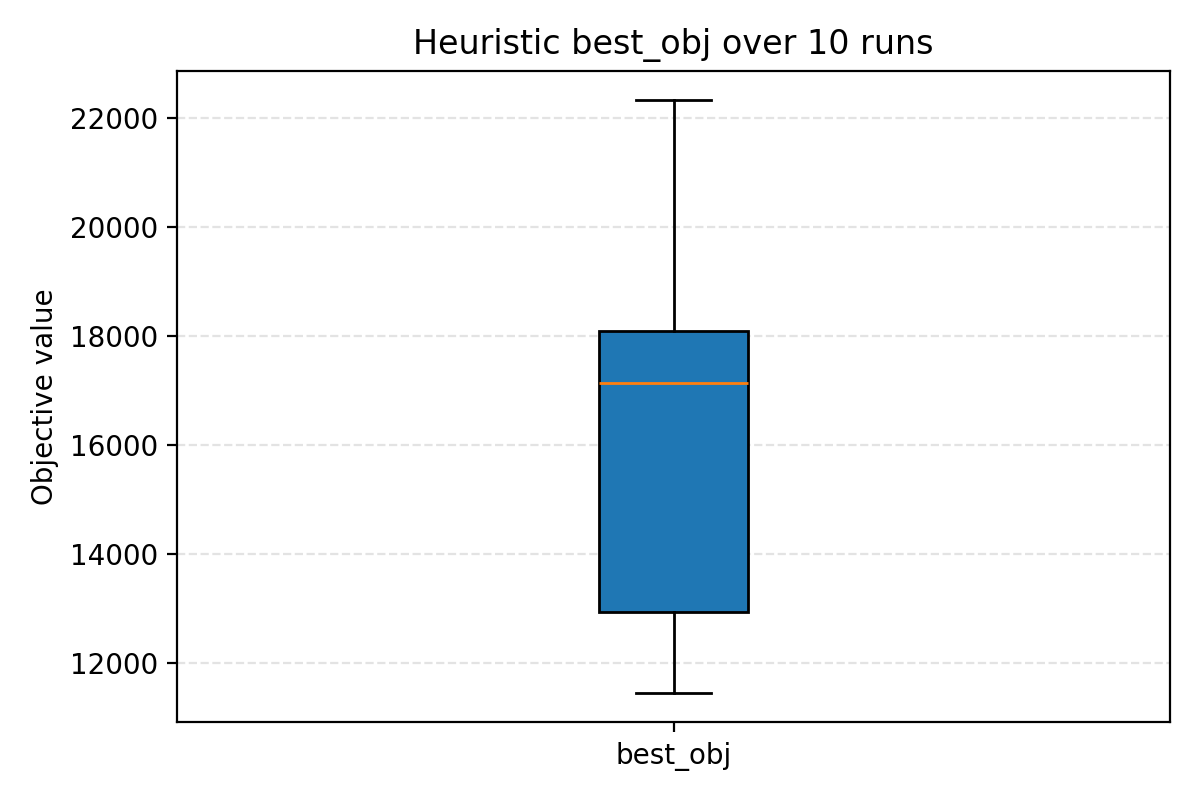
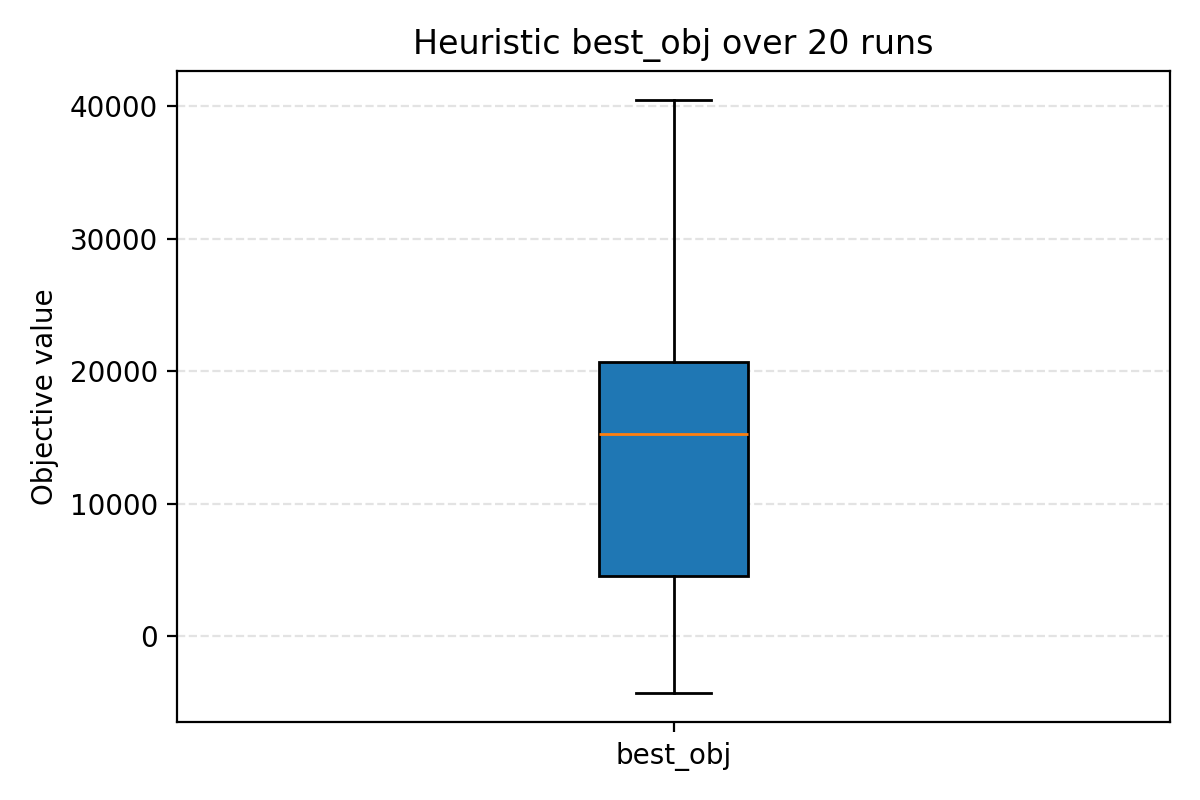
Update KPIs and run experiments

diff --git a/Heuristic/Experiments/Results/Dashborad.py b/Heuristic/Experiments/Results/Dashborad.py
@@ -3,58 +3,235 @@ import streamlit as st
 import plotly.express as px
 
 def run_dashboard(df: pd.DataFrame):
-    st.set_page_config(page_title="Run Dashboard", layout="wide")
+    # --- Page Config & High-Contrast CSS Theme ---
+    st.set_page_config(page_title="eVTOL Optimization Control Room", layout="wide", page_icon="🛸")
+    
+    # Custom CSS for structure, deep text-to-background contrast, and modern layout cards
+    st.markdown("""
+        <style>
+            /* Reset canvas padding */
+            .block-container { padding-top: 1.5rem; padding-bottom: 2rem; background-color: #FAFAFA; }
+            
+            /* High contrast typography (Dark Slate on Off-White) */
+            h1, h2, h3 { color: #0F172A !important; font-weight: 700 !important; }
+            p, span, label { color: #334155 !important; font-weight: 500; }
+            
+            /* Custom KPI Card Styling with high-contrast borders */
+            .kpi-card {
+                background-color: #FFFFFF;
+                padding: 20px;
+                border-radius: 12px;
+                border: 2px solid #E2E8F0;
+                box-shadow: 0 4px 6px -1px rgba(0, 0, 0, 0.05);
+                margin-bottom: 1rem;
+            }
+            .kpi-title { font-size: 0.85rem; text-transform: uppercase; letter-spacing: 0.05em; color: #64748B; margin-bottom: 6px; }
+            .kpi-value { font-size: 1.8rem; font-weight: 800; color: #0F172A; }
+            
+            /* Section container */
+            .dashboard-section {
+                background-color: #FFFFFF;
+                padding: 24px;
+                border-radius: 16px;
+                border: 1px solid #E2E8F0;
+                margin-bottom: 1.5rem;
+            }
+        </style>
+    """, unsafe_allow_html=True)
 
-    st.title("Optimization Run Dashboard")
+    # --- Header ---
+    st.title("🛸 eVTOL Fleet Optimization Control Room")
+    st.markdown("Assess solver performance, vehicle bottlenecks, and passenger service levels across execution history.")
+    st.markdown("---")
 
-    # --- Sidebar controls ---
-    metric_options = [c for c in df.columns if c != "run"]
-    selected_metrics = st.sidebar.multiselect(
-        "Select metrics to visualize",
-        metric_options,
-        default=metric_options[:4]
-    )
-
+    # --- Sidebar Filters ---
+    st.sidebar.header("🎛️ Global Controls")
+    
+    run_min, run_max = int(df["run"].min()), int(df["run"].max())
     run_range = st.sidebar.slider(
-        "Run range",
-        int(df["run"].min()),
-        int(df["run"].max()),
-        (int(df["run"].min()), int(df["run"].max()))
+        "Filter Run Execution Window",
+        run_min, run_max, (run_min, run_max)
     )
+    
+    # Filter and sort data
+    filtered = df[(df["run"] >= run_range[0]) & (df["run"] <= run_range[1])].sort_values("run")
 
-    filtered = df[(df["run"] >= run_range[0]) & (df["run"] <= run_range[1])]
+    # --- SECTION 1: EXECUTIVE SCORECARD ---
+    st.subheader("📊 Executive Summary Metrics (Averages)")
+    
+    # Compute metrics cleanly upfront
+    max_obj = filtered['best_obj'].max() if 'best_obj' in filtered.columns else 0.0
+    avg_util = (filtered['aircraft_utilization'].mean() * 100) if 'aircraft_utilization' in filtered.columns else 0.0
+    avg_demand = filtered['passenger_demand_served'].mean() if 'passenger_demand_served' in filtered.columns else 0.0
+    avg_wait = filtered['average_passenger_waiting_time'].mean() if 'average_passenger_waiting_time' in filtered.columns else 0.0
+    avg_deadhead = filtered['deadhead_time'].mean() if 'deadhead_time' in filtered.columns else 0.0
 
-    # --- KPIs row ---
-    st.subheader("Summary KPIs")
-    col1, col2, col3, col4 = st.columns(4)
+    # Grid of HTML-rendered High Contrast KPI Cards
+    kpi_cols = st.columns(5)
+    
+    metrics_data = [
+        ("🏆 Max Best Objective", f"{max_obj:,.2f}", 0),
+        ("⚡ Avg Utilization", f"{avg_util:.1f}%", 1),
+        ("👥 Avg Demand Served", f"{avg_demand:,.1f}", 2),
+        ("⏳ Avg Waiting Time", f"{avg_wait:.1f} min", 3),
+        ("✈️ Avg Deadhead Time", f"{avg_deadhead:.1f} min", 4)
+    ]
+    
+    for title, val, col_idx in metrics_data:
+        kpi_cols[col_idx].markdown(f"""
+            <div class="kpi-card">
+                <div class="kpi-title">{title}</div>
+                <div class="kpi-value">{val}</div>
+            </div>
+        """, unsafe_allow_html=True)
 
-    col1.metric("Best Objective (max)", f"{filtered['best_obj'].max():.2f}")
-    col2.metric("Avg Aircraft Utilization", f"{filtered['aircraft_utilization'].mean():.3f}")
-    col3.metric("Avg Passenger Served %", f"{filtered['passenger_demand_served_pct'].mean():.2f}")
-    col4.metric("Avg Idle Time", f"{filtered['aircraft_idle_time'].mean():.1f}")
+    # --- SECTION 2: MACRO ANALYSIS (SIDE-BY-SIDE) ---
+    st.markdown('<div class="dashboard-section">', unsafe_allow_html=True)
+    mid_left, mid_right = st.columns([3, 2])
+    
+    target_kpis = ["best_obj", "aircraft_utilization", "deadhead_time", "passenger_demand_served", "average_passenger_waiting_time"]
+    available_kpis = [k for k in target_kpis if k in df.columns]
 
-    # --- Line charts ---
-    st.subheader("Trends over Runs")
+    with mid_left:
+        st.markdown("### 📊 Distribution of Best Objective Values")
+        if "best_obj" in filtered.columns:
+            # Replaced px.line with px.box for distributional overview
+            fig_main = px.box(
+                filtered, 
+                y="best_obj",
+                points="all", # Shows individual run dots next to the box for transparency
+                template="plotly_white", 
+                color_discrete_sequence=["#2563EB"] # Bold blue theme
+            )
+            fig_main.update_layout(
+                height=350, 
+                margin=dict(l=10, r=10, t=20, b=10),
+                # Enforce clean high-contrast light theme attributes
+                paper_bgcolor="#FFFFFF",
+                plot_bgcolor="#FFFFFF",
+                font=dict(color="#0F172A"),
+                xaxis=dict(
+                    showticklabels=False, # Hides the default empty X-axis label for a single box
+                    gridcolor="#E2E8F0"
+                ),
+                yaxis=dict(
+                    gridcolor="#E2E8F0", 
+                    title="Objective Value Value",
+                    title_font=dict(color="#0F172A"), 
+                    tickfont=dict(color="#334155")
+                )
+            )
+            st.plotly_chart(fig_main, use_container_width=True)
 
-    for metric in selected_metrics:
-        fig = px.line(
-            filtered,
-            x="run",
-            y=metric,
-            markers=True,
-            title=f"{metric} over runs"
-        )
-        st.plotly_chart(fig, use_container_width=True)
+    with mid_right:
+        st.markdown("### 🎯 KPI Trade-Off & Correlation")
+        if len(available_kpis) > 1:
+            corr = filtered[available_kpis].corr()
+            
+            # Using an explicitly distinct light-to-dark blue gradient map for high contrast
+            fig_corr = px.imshow(
+                corr, text_auto=".2f", aspect="auto",
+                template="plotly_white",
+                color_continuous_scale=[[0, "#EFF6FF"], [0.5, "#3B82F6"], [1, "#1E3A8A"]]
+            )
+            fig_corr.update_layout(
+                height=350, 
+                margin=dict(l=10, r=10, t=20, b=10),
+                # Force high-contrast light theme attributes
+                paper_bgcolor="#FFFFFF",
+                plot_bgcolor="#FFFFFF",
+                font=dict(color="#0F172A"),
+                coloraxis_showscale=False,
+                xaxis=dict(
+                    title_font=dict(color="#0F172A"), 
+                    tickfont=dict(color="#334155")
+                ),
+                yaxis=dict(
+                    title_font=dict(color="#0F172A"), 
+                    tickfont=dict(color="#334155")
+                )
+            )
+            st.plotly_chart(fig_corr, use_container_width=True)
 
-    # --- Correlation heatmap ---
-    st.subheader("Metric Correlation")
-    corr = filtered[metric_options].corr()
+    # --- SECTION 3: EFFICIENCY & GRIDS DEEP DIVE ---
+    st.subheader("⚙️ Operational Efficiency Deep-Dive")
+    
+    bot_col1, bot_col2 = st.columns(2)
+    
+    with bot_col1:
+        # Using native containers with borders for high contrast and flawless rendering
+        with st.container(border=True):
+            st.markdown("### ✈️ Fleet Utilization vs. Empty Transit")
+            
+            # Dual visualization tracking operations
+            if "aircraft_utilization" in filtered.columns and "deadhead_time" in filtered.columns:
+                fig_fleet = px.scatter(
+                    filtered, 
+                    x="aircraft_utilization", 
+                    y="deadhead_time", 
+                    color="run", 
+                    size="passenger_demand_served" if "passenger_demand_served" in filtered.columns else None,
+                    labels={"aircraft_utilization": "Aircraft Utilization (Ratio)", "deadhead_time": "Deadhead Time (Min)", "run": "Run ID"},
+                    template="plotly_white", 
+                    color_continuous_scale="Viridis"
+                )
+                fig_fleet.update_layout(
+                    height=350, 
+                    margin=dict(l=10, r=10, t=20, b=10),
+                    # Force high-contrast text and clean light canvas background
+                    paper_bgcolor="#FFFFFF",
+                    plot_bgcolor="#FFFFFF",
+                    font=dict(color="#0F172A"), # Deep slate text
+                    xaxis=dict(
+                        gridcolor="#E2E8F0", 
+                        title_font=dict(color="#0F172A"), 
+                        tickfont=dict(color="#334155")
+                    ),
+                    yaxis=dict(
+                        gridcolor="#E2E8F0", 
+                        title_font=dict(color="#0F172A"), 
+                        tickfont=dict(color="#334155")
+                    )
+                )
+                st.plotly_chart(fig_fleet, use_container_width=True)
+            else:
+                st.info("Missing 'aircraft_utilization' or 'deadhead_time' columns to render plot.")
 
-    fig = px.imshow(
-        corr,
-        text_auto=True,
-        aspect="auto",
-        title="Correlation Heatmap"
-    )
-    st.plotly_chart(fig, use_container_width=True)
-
+    with bot_col2:
+        with st.container(border=True):
+            st.markdown("### 👥 Passenger Experience Metrics")
+            
+            # Line/Area chart for passenger wait times over execution runs
+            if "average_passenger_waiting_time" in filtered.columns:
+                fig_pass = px.area(
+                    filtered, 
+                    x="run", 
+                    y="average_passenger_waiting_time",
+                    labels={"run": "Run Number", "average_passenger_waiting_time": "Avg Wait Time (Min)"},
+                    template="plotly_white", 
+                    color_discrete_sequence=["#F59E0B"] # Sharp amber color
+                )
+                fig_pass.update_layout(
+                    hovermode="x unified", 
+                    height=350, 
+                    margin=dict(l=10, r=10, t=20, b=10),
+                    # Force high-contrast text and clean light canvas background
+                    paper_bgcolor="#FFFFFF",
+                    plot_bgcolor="#FFFFFF",
+                    font=dict(color="#0F172A"),
+                    xaxis=dict(
+                        gridcolor="#E2E8F0", 
+                        title="Run Number",
+                        title_font=dict(color="#0F172A"), 
+                        tickfont=dict(color="#334155")
+                    ),
+                    yaxis=dict(
+                        gridcolor="#E2E8F0", 
+                        title="Avg Wait Time (Min)",
+                        title_font=dict(color="#0F172A"), 
+                        tickfont=dict(color="#334155")
+                    )
+                )
+                st.plotly_chart(fig_pass, use_container_width=True)
+            else:
+                st.info("Missing 'average_passenger_waiting_time' column to render plot.")